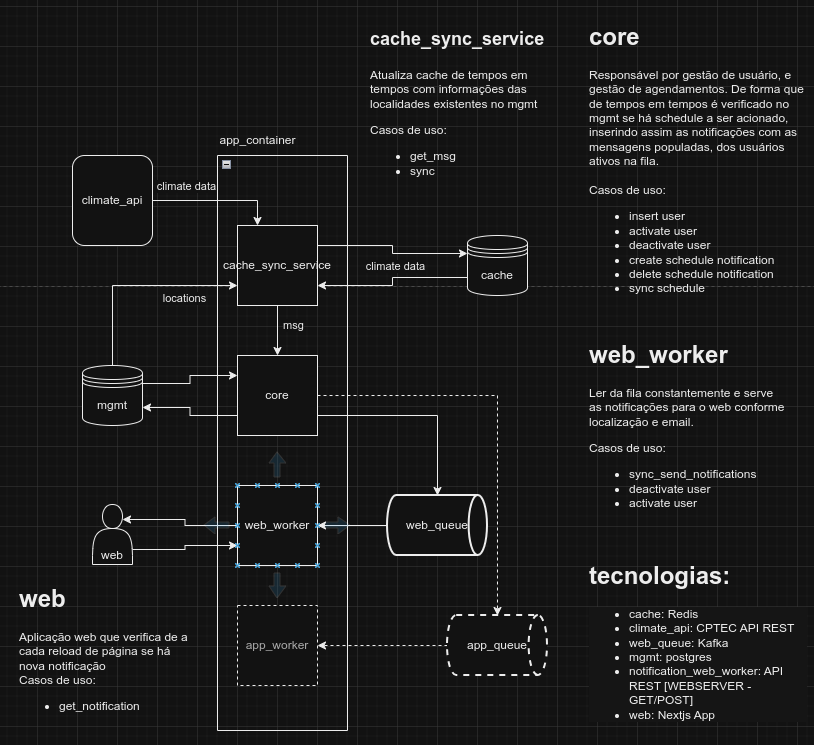
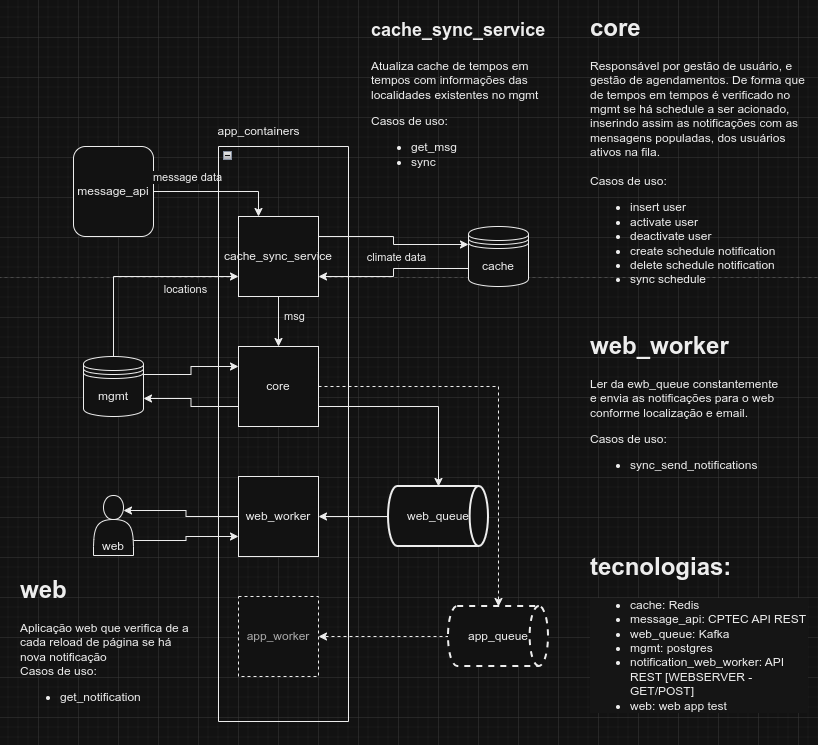
atualizando readme

diff --git a/README.md b/README.md
@@ -10,3 +10,148 @@
 - swagger nas apis
 - fazer app simples html css js
 
+## Introdução
+A solução tem como objetivo enviar mensagens com informações de previsão do tempo 
+para uma aplicação web sendo possível o agendamento desse envio, e o conteúdo da mensagem depende 
+da localização do usuário. O usuário poderá também ser cadastrado, ativado e desativado.
+
+A autenticação e autorização não está contemplada no projeto. Considerou-se que é feita por outro serviço, utilizando talvez a camada de infra e etc.  
+
+## app_containers
+É o conjunto de aplicativos internos da solução. Os blocos contidos são containers. Esses blocos chamaremos neste documento de módulos
+
+## cache_sync_service
+Atualiza cache de tempos em tempos com informações das localidades existentes no mgmt.
+### casos de uso
+- sync
+  - job que roda de tempos em tempos. Este consulta as localidades diferentes no mgmt, e popula no cache. Considera-se rodar este job todos os dias.
+- get_msg
+  - possibilita captura da mensagem com base num valor de 'nome cidade - UF', Usado pelo core, este uso é feito utilizando injeção do usecase, poderia ter sido feito via http, mas não foi a decisão.
+
+## core
+Responsável pela gestão de usuários e agendamentos. De forma que de tempos em tempos é verificado no mgmt se há schedule a ser acionado, inserindo assim as notificações com as mensagens populadas, dos usuários ativos na fila.
+### casos de uso
+- insert user
+- activate user
+- deactivate user
+- create schedule notification
+- delete schedule notification
+- sync schedule
+  - verifica agendamentos que devem ser acionados e envia para as filas cadastradas, hoje somente com a web_queue, as notificações para os usuários ativos.
+
+## web_worker
+Ler da ewb_queue constantemente e envia as notificações para o web conforme localização e email.
+### casos de uso
+- sync_send_notifications
+
+## app_worker (pode ser implementado futuramente)
+Ler da web_queue constantemente e envia as notificações para o app conforme localização e email.
+### casos de uso (padrão para workers)
+- sync_send_notifications
+
+## estrutua e organização
+
+Decidiu-se utilizar alguns conceitos de clean architecture e domínios ricos. 
+Os módulos estão contidos na pasta internal, e seus entrypoints na pasta cmd, uma outra possibilidade seria tornar esses módulos em projetos isolados.
+- Dentro de cada módulo há:
+  - entity
+    - contém as regras de négocio, representa o domínio.
+  - infra
+    - contém as implementações e integrações com meio externo, banco de dados, api e etc.
+  - usecase
+    - representa intensão do usuário, o usuário pode ser outro módulo ou sistema.
+### pastas
+```tree
+├── cmd
+│   ├── cache_sync_service
+│   │   └── factories
+│   ├── core
+│   ├── web_client_test
+│   └── web_worker
+├── configs
+├── internal
+│   ├── cache_sync_service
+│   │   ├── entity
+│   │   ├── infra
+│   │   │   └── implements
+│   │   └── usecase
+│   │       └── interfaces
+│   ├── core
+│   │   ├── entity
+│   │   ├── infra
+│   │   │   ├── database
+│   │   │   │   └── migrations
+│   │   │   ├── implements
+│   │   │   └── web
+│   │   └── usecase
+│   │       └── interfaces
+│   └── web_worker
+│       ├── entity
+│       ├── infra
+│       │   └── implements
+│       └── usecase
+│           └── interfaces
+└── pkg
+
+```
+
+### entrypoints
+```tree
+./cmd
+├── cache_sync_service
+│   ├── factories
+│   │   └── factories.go
+│   └── main.go
+├── core
+│   └── main.go
+└── web_worker
+    └── main.go
+```
+
+### exemplo de módulo
+```tree
+./internal/web_worker
+├── entity
+│   └── notification.go
+├── infra
+│   └── implements
+│       ├── coastal_cities.go
+│       ├── web_kafka_repository.implements.go
+│       └── web_rest_service.implements.go
+└── usecase
+    ├── interfaces
+    │   ├── notification_queue_repository.interface.go
+    │   └── web_service.interface.go
+    └── sync_notifications.usecase.go
+
+```
+O conteúdo da pasta implements são as implementações das interfaces em /usecase/interfaces.
+
+## Resiliência e Escalabilidade
+
+- CircuitBreak
+  - Implementados na neste projeto nas implementações nos módulos na pasta infra/implements nos casos que há request para serviço de terceiros.
+- Containers
+  - Containerização que pode ser escalada com replicaset e deployments usando kubernetes
+
+
+## Tecnologias e serviço de terceiros
+
+- cache: Redis
+- message_api: CPTEC API REST
+- web_queue: Kafka
+- mgmt: postgres
+- notification_web_worker: API REST [WEBSERVER - POST]
+- web: web app test 
+  - [//]: # (  - todo)
+
+## Testando
+
+- rodando
+```bash
+docker compose up -d
+```
+- gestão de usuário e agendamento
+
+Usar uma extensão do vscode Name: Thunder Client: https://marketplace.visualstudio.com/items?itemName=rangav.vscode-thunder-client, que é algo parecido com postman.
+Pode importar o arquivo: thunder-collection_desafio-dev-back.json
